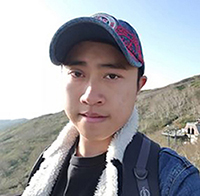
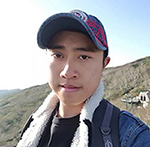
resize to 150x150

diff --git a/index.html b/index.html
@@ -826,19 +826,19 @@
         <div class="row stats block-1-4 block-m-1-2 block-mob-full" data-aos="fade-up">
 
             <div class="col-block stats__col ">
-                <div class="stats__count">1014</div>
+                <div class="stats__count">16</div>
                 <h5>Awards Received</h5>
             </div>
             <div class="col-block stats__col">
-                <div class="stats__count">78</div>
+                <div class="stats__count">140</div>
                 <h5>Cups of Coffee</h5>
             </div>
             <div class="col-block stats__col">
-                <div class="stats__count">456</div>
+                <div class="stats__count">50</div>
                 <h5>Projects Completed</h5>
             </div>
             <div class="col-block stats__col">
-                <div class="stats__count">1564</div>
+                <div class="stats__count">11</div>
                 <h5>Happy Clients</h5>
             </div>
 

diff --git a/css/main.css b/css/main.css
@@ -3475,9 +3475,7 @@ html.no-csstransitions .home-content__main {
 /* line 15, ../../Arafath/CL/CL October/216. Consulting/HTML/scss/_team.scss */
 .team_area .border_bottom .single_team .team_thumb {
   overflow: hidden;
-  margin-bottom: 26px;
-  margin-left: 26px;
-  margin-right: 26px;
+  margin: 0px 20px 26px;
   -webkit-border-radius: 10px;
   -moz-border-radius: 10px;
   border-radius: 10px;
@@ -3522,7 +3520,7 @@ html.no-csstransitions .home-content__main {
 .team_area .border_bottom .single_team .team_info .social_link li a {
   font-size: 15px;
   color: #C7C7C7;
-  margin-right: 19px;
+  margin-right: 20px;
 }
 
 /* line 46, ../../Arafath/CL/CL October/216. Consulting/HTML/scss/_team.scss */
